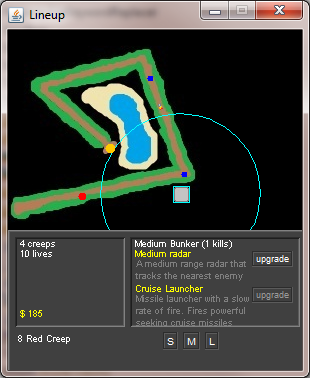
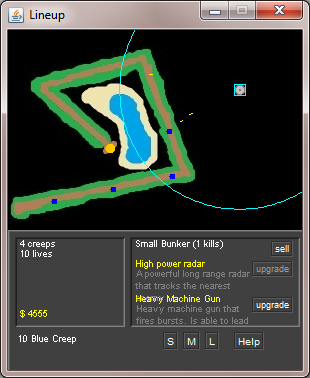
added more creeps, waves, bunker sell button, help dialog and new tracker

diff --git a/src/main/java/lineup/ui/BunkerPanel.java b/src/main/java/lineup/ui/BunkerPanel.java
@@ -18,7 +18,7 @@ import lineup.model.Arms;
 import lineup.model.Bunker;
 import lineup.model.TrackingSystem;
 import lineup.tech.TechTree;
-import lineup.ui.util.GraphicsUtil;
+import lineup.util.ui.GraphicsUtil;
 import lineup.world.Player;
 import lineup.world.World;
 
@@ -33,6 +33,7 @@ public class BunkerPanel extends JPanel implements ActionListener {
   
   private JButton upgradeArms = new JButton("upgrade");
   private JButton upgradeTracker = new JButton("upgrade");
+  private JButton sell = new JButton("sell");
   
   /**
    * Constructor.
@@ -48,18 +49,31 @@ public class BunkerPanel extends JPanel implements ActionListener {
     SpringLayout layout = new SpringLayout();
     setLayout(layout);
     
+    Border border = BorderFactory.createCompoundBorder(BorderFactory.createEtchedBorder(), 
+        BorderFactory.createMatteBorder(0, 2, 0, 2, Color.DARK_GRAY));
+    
+    sell.setToolTipText("sell for half cost");
+    sell.setFont(font);
+    sell.setBackground(Color.DARK_GRAY);
+    sell.setForeground(Color.WHITE);
+    sell.setBorder(border);
+    sell.addActionListener(this);
+    sell.setVisible(false);
+    
+    add(sell);
+    layout.putConstraint(SpringLayout.NORTH, sell, 2, SpringLayout.NORTH, this);
+    layout.putConstraint(SpringLayout.EAST, sell, -5, SpringLayout.EAST, this);
+    
     upgradeArms.setToolTipText("Upgrade weapons");
     upgradeArms.setFont(font);
     upgradeArms.setBackground(Color.DARK_GRAY);
     upgradeArms.setForeground(Color.WHITE);
-    Border border = BorderFactory.createCompoundBorder(BorderFactory.createEtchedBorder(), 
-        BorderFactory.createMatteBorder(0, 2, 0, 2, Color.DARK_GRAY));
     upgradeArms.setBorder(border);
     upgradeArms.addActionListener(this);
     upgradeArms.setVisible(false);
     
     add(upgradeArms);
-    layout.putConstraint(SpringLayout.NORTH, upgradeArms, 48, SpringLayout.NORTH, this);
+    layout.putConstraint(SpringLayout.NORTH, upgradeArms, 58, SpringLayout.NORTH, this);
     layout.putConstraint(SpringLayout.EAST, upgradeArms, -5, SpringLayout.EAST, this);
     
     upgradeTracker.setToolTipText("Upgrade tracker");
@@ -71,13 +85,14 @@ public class BunkerPanel extends JPanel implements ActionListener {
     upgradeTracker.setVisible(false);
     
     add(upgradeTracker);
-    layout.putConstraint(SpringLayout.NORTH, upgradeTracker, 12, SpringLayout.NORTH, this);
+    layout.putConstraint(SpringLayout.NORTH, upgradeTracker, 22, SpringLayout.NORTH, this);
     layout.putConstraint(SpringLayout.EAST, upgradeTracker, -5, SpringLayout.EAST, this);
   }
 
   
   public void setBunker(Bunker bunker) {
     this.bunker = bunker;
+    sell.setVisible(bunker != null);
     upgradeArms.setVisible(bunker != null);
     upgradeTracker.setVisible(bunker != null);
     
@@ -106,22 +121,22 @@ public class BunkerPanel extends JPanel implements ActionListener {
     
     if (bunker.getTracking() == null) {
       g.setColor(Color.RED);
-      g.drawString("No tracking system", 5, 20);
+      g.drawString("No tracking system", 5, 30);
     } else {
       g.setColor(Color.YELLOW);
-      g.drawString(bunker.getTracking().getName(), 5, 20);
+      g.drawString(bunker.getTracking().getName(), 5, 30);
       g.setColor(Color.GRAY);
-      GraphicsUtil.drawWrappedString(g, bunker.getTracking().getDescription(), 6, 30, getWidth() - 50);
+      GraphicsUtil.drawWrappedString(g, bunker.getTracking().getDescription(), 6, 40, getWidth() - 50);
     }
     
     if (bunker.getArms() == null) {
       g.setColor(Color.RED);
-      g.drawString("No weapon system", 5, 50);
+      g.drawString("No weapon system", 5, 65);
     } else {
       g.setColor(Color.YELLOW);
-      g.drawString(bunker.getArms().getName(), 5, 55);
+      g.drawString(bunker.getArms().getName(), 5, 65);
       g.setColor(Color.GRAY);
-      GraphicsUtil.drawWrappedString(g, bunker.getArms().getDescription(), 6, 65, getWidth() - 50);
+      GraphicsUtil.drawWrappedString(g, bunker.getArms().getDescription(), 6, 75, getWidth() - 50);
     }
   }
 
@@ -131,6 +146,8 @@ public class BunkerPanel extends JPanel implements ActionListener {
       showArmsUpgradeMenu();
     } else if (evt.getSource() == upgradeTracker) {
       showTrackerUpgradeMenu();
+    } else if (evt.getSource() == sell) {
+      sellBunker();
     } else {
       String clazz = evt.getActionCommand();
       upgradeBunker(clazz);
@@ -189,6 +206,16 @@ public class BunkerPanel extends JPanel implements ActionListener {
     }
   }
 
+  private void sellBunker() {
+    if (bunker != null) {
+      World.getInstance().getPlayer().giveMoney(bunker.getSellValue());
+      World.getInstance().removeBunker(bunker);
+      bunker = null;
+      sell.setVisible(false);
+      upgradeArms.setVisible(false);
+      upgradeTracker.setVisible(false);
+    }
+  }
 
   private void upgradeTracker(Class<? extends TrackingSystem> c) {
     try {

diff --git a/src/main/java/lineup/ui/WavesPanel.java b/src/main/java/lineup/ui/WavesPanel.java
@@ -3,8 +3,11 @@ package lineup.ui;
 import java.awt.Color;
 import java.awt.Font;
 import java.awt.Graphics;
+import java.awt.event.ActionEvent;
+import java.awt.event.ActionListener;
 
 import javax.swing.BorderFactory;
+import javax.swing.JButton;
 import javax.swing.JPanel;
 import javax.swing.SpringLayout;
 import javax.swing.border.Border;
@@ -20,6 +23,9 @@ public class WavesPanel extends JPanel {
   private Font font9 = new Font("SansSerif", Font.PLAIN, 9);
   private Font fontBig = new Font("SansSerif", Font.PLAIN, 10);
   private SpringLayout layout;
+  
+  private Border border = BorderFactory.createCompoundBorder(BorderFactory.createEtchedBorder(), 
+      BorderFactory.createMatteBorder(0, 2, 0, 2, Color.DARK_GRAY));
   
   /**
    * Constructor.
@@ -51,6 +57,20 @@ public class WavesPanel extends JPanel {
     BunkerButton l = createButton(BunkerType.L, "Large Bunker $200", gameUi, 200);
     layout.putConstraint(SpringLayout.NORTH, l, 0, SpringLayout.NORTH, this);
     layout.putConstraint(SpringLayout.WEST, l, 5, SpringLayout.EAST, m);
+    
+    JButton help = new JButton("Help");
+    help.setFont(fontBig);
+    help.setBackground(Color.DARK_GRAY);
+    help.setForeground(Color.WHITE);
+    help.setBorder(border);
+    help.addActionListener(new ActionListener() {
+      public void actionPerformed(ActionEvent e) {
+        new HelpDialog().setVisible(true);
+      }
+    });
+    add(help);
+    layout.putConstraint(SpringLayout.NORTH, help, 0, SpringLayout.NORTH, this);
+    layout.putConstraint(SpringLayout.WEST, help, 15, SpringLayout.EAST, l);
   }
 
   private BunkerButton createButton(BunkerType type, String tooltip, UI gameUi, int costThreshold) {
@@ -59,8 +79,6 @@ public class WavesPanel extends JPanel {
     button.setFont(fontBig);
     button.setBackground(Color.DARK_GRAY);
     button.setForeground(Color.WHITE);
-    Border border = BorderFactory.createCompoundBorder(BorderFactory.createEtchedBorder(), 
-        BorderFactory.createMatteBorder(0, 2, 0, 2, Color.DARK_GRAY));
     button.setBorder(border);
     button.setActionCommand(type.name());
     button.addActionListener(new CreateBunkerListener(gameUi));

diff --git a/src/main/java/lineup/model/implementations/arms/BurstGun.java b/src/main/java/lineup/model/implementations/arms/BurstGun.java
@@ -22,6 +22,7 @@ public abstract class BurstGun implements Arms {
   private int burstRemaining;
   private int burstInterval;
   private int burstCooldown;
+  private int burstReload;
   
   private Bunker owner;
   
@@ -39,6 +40,7 @@ public abstract class BurstGun implements Arms {
     if (targets.size() > 0) {
       
       if (burstRemaining > 0) {
+        burstReload = 0;
         burstRemaining--;
         burstCooldown = burstInterval;
         shots.add(createProjectile(location, targets.get(0)));
@@ -49,6 +51,11 @@ public abstract class BurstGun implements Arms {
         burstRemaining = burstSize;
         burstCooldown = burstInterval;
       }
+    } else if (burstReload >= reload) {
+      burstReload = 0;
+      cooldown = 0;
+      burstRemaining = burstSize;
+      burstCooldown = burstInterval;
     }
     return shots;
   }
@@ -75,6 +82,7 @@ public abstract class BurstGun implements Arms {
         burstCooldown = 0;
       }
     }
+    burstReload += elapsed;
   }
   
   public Bunker getOwner() {

diff --git a/src/main/java/lineup/model/Bunker.java b/src/main/java/lineup/model/Bunker.java
@@ -9,7 +9,7 @@ import java.util.List;
 import lineup.model.implementations.bunkers.LargeBunker;
 import lineup.model.implementations.bunkers.MediumBunker;
 import lineup.model.implementations.bunkers.SmallBunker;
-import lineup.ui.util.ImageLoader;
+import lineup.util.ui.ImageLoader;
 import lineup.world.Renderable;
 import lineup.world.Updateable;
 import lineup.world.World;
@@ -140,6 +140,17 @@ public abstract class Bunker extends Storage implements Renderable, Updateable, 
     }
     bunker.setLocation(x, y);
     return bunker;
+  }
+
+  public int getSellValue() {
+    int val = cost;
+    if (arms != null) {
+      val += arms.getCost();
+    }
+    if (tracking != null) {
+      val += tracking.getCost();
+    }
+    return val/2;
   }
 
 }

diff --git a/src/main/java/lineup/util/math/Vector2D.java b/src/main/java/lineup/util/math/Vector2D.java
@@ -138,6 +138,10 @@ public class Vector2D {
     x += dx;
     y += dy;
   }
+  
+  public Location getEnd() {
+    return new Location(x + getDx(), y + getDy());
+  }
 
   public void add(Vector2D v) {
     double dx = getDx() + v.getDx();
@@ -146,6 +150,10 @@ public class Vector2D {
     
     Location end = new Location(x + dx, y + dy);
     pointAt(end);
+  }
+  
+  public double dot(Vector2D v) {
+    return getDx()*v.getDx() + getDy() + v.getDy();
   }
 
   public void scale(int scale) {

diff --git a/src/main/java/lineup/ui/HelpDialog.java b/src/main/java/lineup/ui/HelpDialog.java
@@ -1,0 +1,18 @@
+package lineup.ui;
+
+import javax.swing.JDialog;
+
+public class HelpDialog extends JDialog {
+
+  private static final long serialVersionUID = 1955693620510632851L;
+
+  /**
+   * Constructor.
+   */
+  public HelpDialog() {
+    super();
+    setTitle("Help");
+    setModal(false);
+    setSize(300, 300);
+  }
+}

diff --git a/src/main/java/lineup/util/LevelFactory.java b/src/main/java/lineup/util/LevelFactory.java
@@ -19,7 +19,7 @@ import lineup.model.Creep;
 import lineup.model.Level;
 import lineup.model.Location;
 import lineup.model.Wave;
-import lineup.ui.util.ImageLoader;
+import lineup.util.ui.ImageLoader;
 import lineup.util.config.CreepConfig;
 import lineup.util.config.LevelConfig;
 import lineup.util.config.MainConfig;

diff --git a/src/main/java/lineup/model/implementations/projectiles/LightRocket.java b/src/main/java/lineup/model/implementations/projectiles/LightRocket.java
@@ -8,7 +8,7 @@ import java.awt.geom.AffineTransform;
 import lineup.model.Bunker;
 import lineup.model.Location;
 import lineup.model.Projectile;
-import lineup.ui.util.ImageLoader;
+import lineup.util.ui.ImageLoader;
 import lineup.util.math.Vector2D;
 
 public class LightRocket extends Projectile {

diff --git a/src/main/java/lineup/model/implementations/projectiles/CruiseMissile.java b/src/main/java/lineup/model/implementations/projectiles/CruiseMissile.java
@@ -9,7 +9,7 @@ import lineup.model.Bunker;
 import lineup.model.Creep;
 import lineup.model.Location;
 import lineup.model.Projectile;
-import lineup.ui.util.ImageLoader;
+import lineup.util.ui.ImageLoader;
 import lineup.util.math.Vector2D;
 
 public class CruiseMissile extends Projectile {

diff --git a/src/main/java/lineup/model/implementations/projectiles/SmallMissile.java b/src/main/java/lineup/model/implementations/projectiles/SmallMissile.java
@@ -9,7 +9,7 @@ import lineup.model.Bunker;
 import lineup.model.Creep;
 import lineup.model.Location;
 import lineup.model.Projectile;
-import lineup.ui.util.ImageLoader;
+import lineup.util.ui.ImageLoader;
 import lineup.util.math.Vector2D;
 
 public class SmallMissile extends Projectile {

diff --git a/src/main/java/lineup/ui/UI.java b/src/main/java/lineup/ui/UI.java
@@ -15,7 +15,7 @@ import lineup.model.Bunker.BunkerType;
 import lineup.model.Creep;
 import lineup.model.Location;
 import lineup.model.Projectile;
-import lineup.ui.util.BunkerCursors;
+import lineup.util.ui.BunkerCursors;
 import lineup.world.World;
 
 public class UI {

diff --git a/src/main/java/lineup/world/World.java b/src/main/java/lineup/world/World.java
@@ -232,4 +232,10 @@ public class World {
     }
   }
 
+  public void removeBunker(Bunker bunker) {
+    synchronized (bunkers) {
+      bunkers.remove(bunker);
+    }
+  }
+
 }
